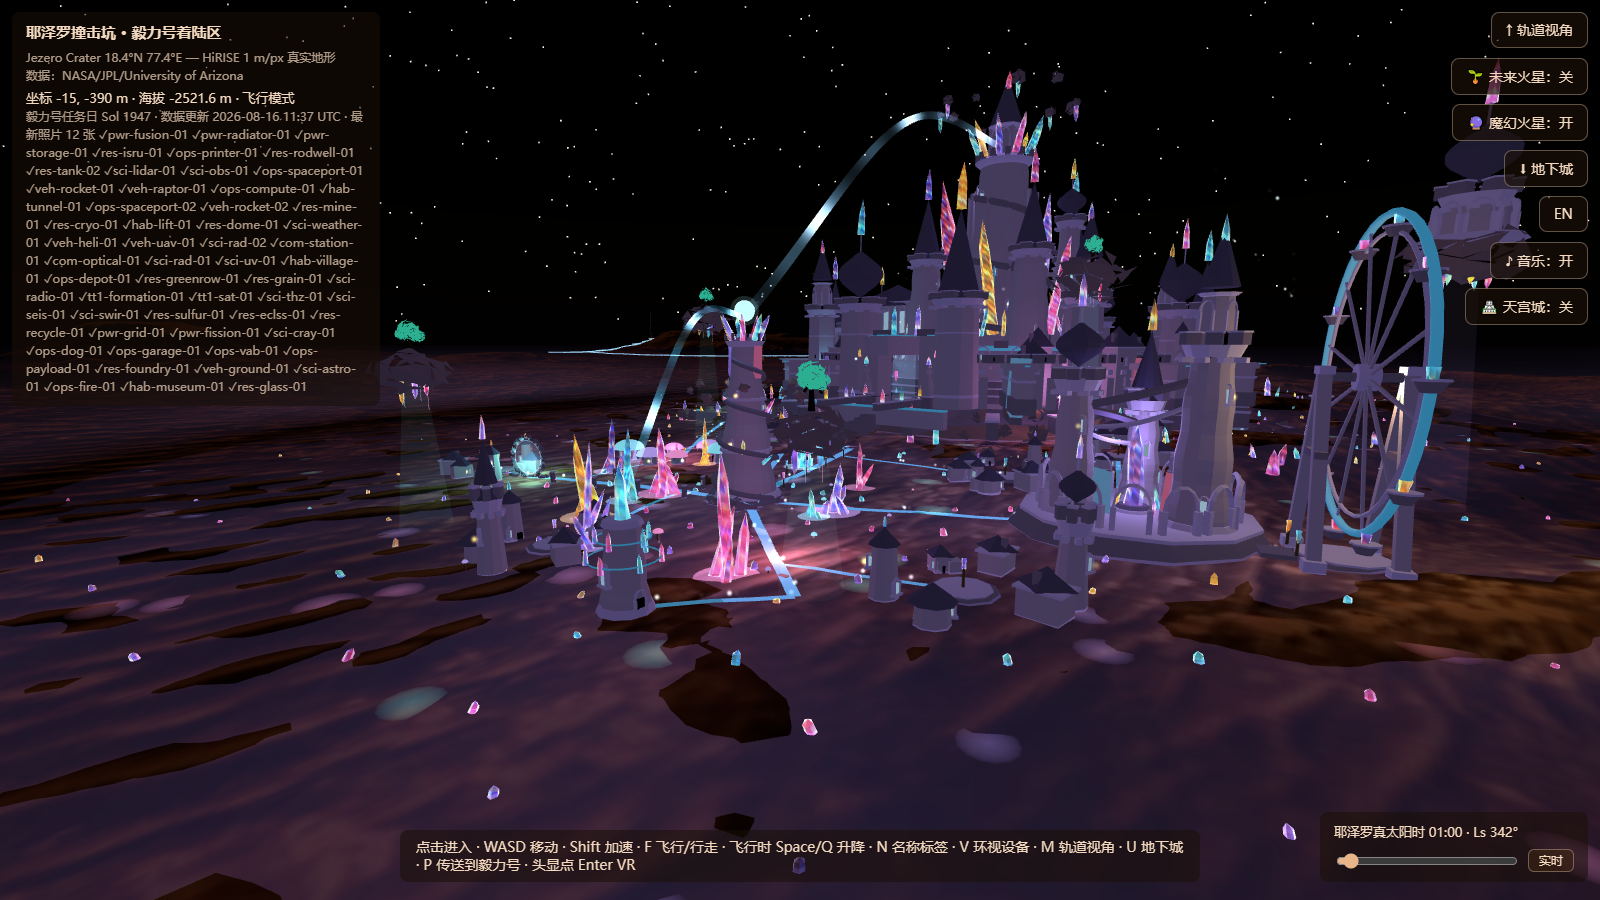
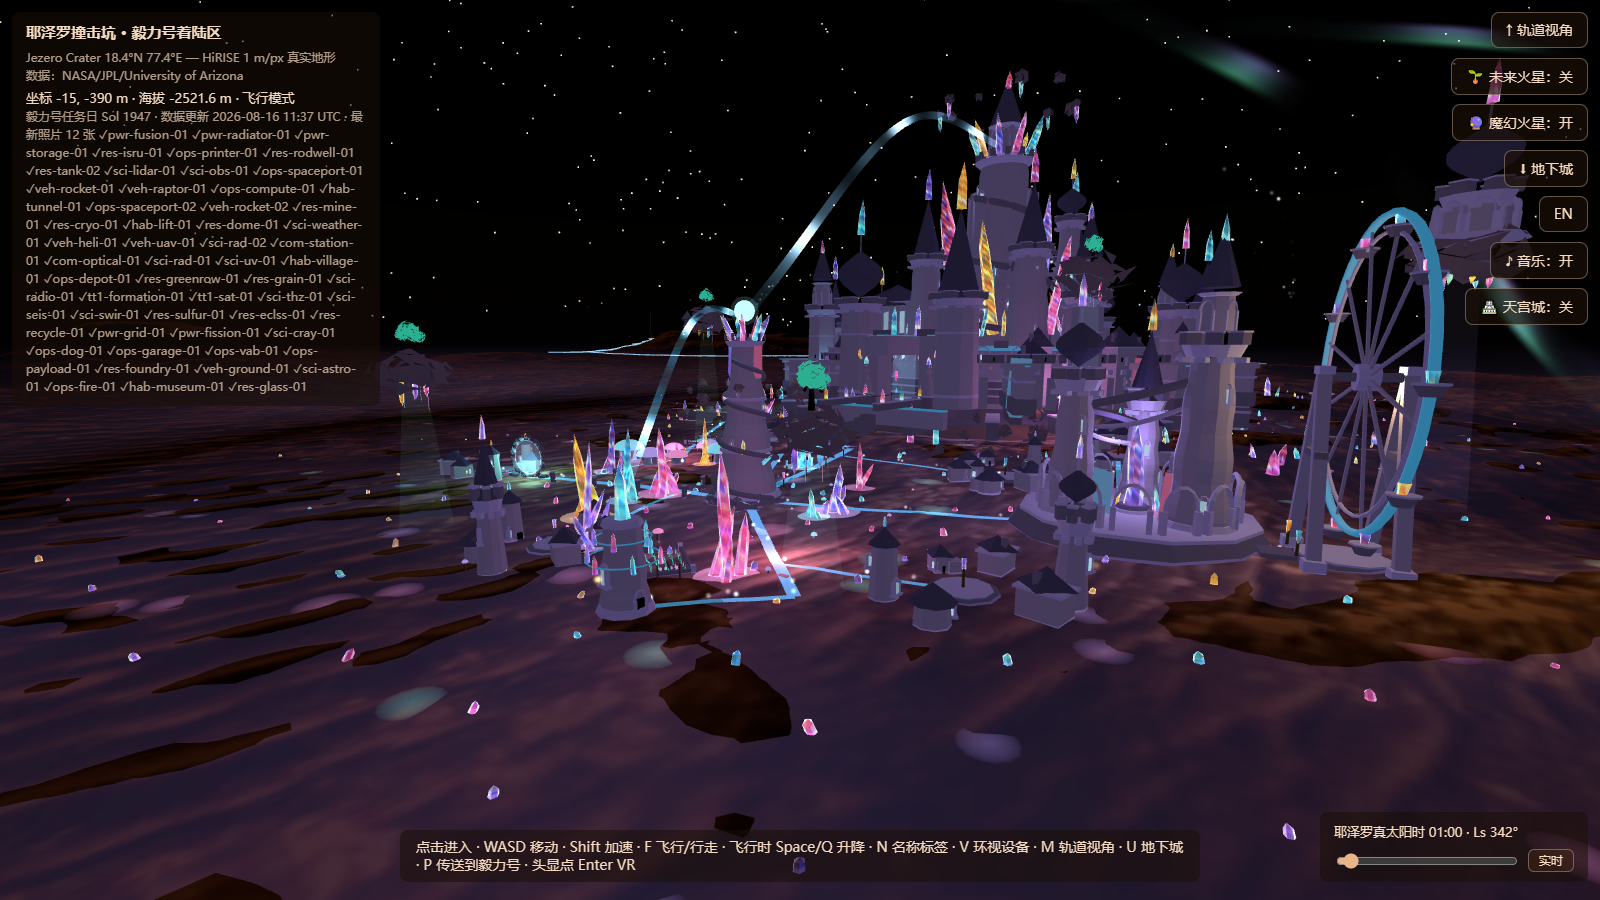
docs: the city in the round - a turntable gif joins the README
A 40-frame orbit of the science city under the hero image: launch
towers, mine spiral, radiator field, greenhouse dome and the
Perseverance route in one slow turn.

diff --git a/viewer/magic/magic-city.js b/viewer/magic/magic-city.js
@@ -2836,6 +2836,153 @@ export function build(ctx) {
     });
   }
 
+  // ---- fields, flock, and the burning sky ----------------------------------
+  // Connective tissue and a crown. Wards gave the city its buildings; this
+  // gives it agriculture between them, birds over it, and a sky of its own.
+  {
+    const h2 = (n) => {
+      const x = Math.sin(n * 91.7 + 47.123) * 24634.6345;
+      return x - Math.floor(x);
+    };
+    // -- A) crop plots: walled fields of glowing reed near the wards. Plain
+    //    green by day; the engine's night ramp lights them (cropMat rides
+    //    nightStone). All tufts across all plots are ONE InstancedMesh.
+    const cropMat = new THREE.MeshLambertMaterial({ color: 0x9fe8c8,
+      emissive: 0x2fbf8f, flatShading: true });
+    nightStone.push(cropMat);
+    const PLOTS = [                              // [cx, cz, w, d, yaw]
+      [-125, -470, 16, 11, 0.5],
+      [-237, -577, 14, 10, 1.2],
+      [-95, -657, 15, 9, 2.4],
+    ];
+    const mats2 = [];
+    const fields = new THREE.Group();
+    fields.name = 'magicFields';
+    magicGroup.add(fields);
+    const { put, flush } = makeBuilder(fields);
+    for (let pi = 0; pi < PLOTS.length; pi++) {
+      const [cx, cz, w2, d2, yaw] = PLOTS[pi];
+      const c = Math.cos(yaw), s0 = Math.sin(yaw);
+      const py3 = gY(cx, cz);
+      for (const [ex, ez, el, across] of [      // low field walls, w x d ring
+        [0, d2 / 2, w2, true], [0, -d2 / 2, w2, true],
+        [w2 / 2, 0, d2, false], [-w2 / 2, 0, d2, false]]) {
+        const wallB = new THREE.Mesh(
+          new THREE.BoxGeometry(across ? el + 0.8 : 0.8, 0.9, across ? 0.8 : el + 0.8),
+          stoneDark);
+        put(wallB, cx + ex * c - ez * s0, py3 + 0.45, cz + ex * s0 + ez * c, -yaw);
+      }
+      for (const [sx, sz] of [[-1, -1], [1, -1], [1, 1], [-1, 1]]) {
+        put(new THREE.Mesh(new THREE.BoxGeometry(1.1, 1.6, 1.1), trimMat),
+          cx + (sx * w2 / 2) * c - (sz * d2 / 2) * s0, py3 + 0.8,
+          cz + (sx * w2 / 2) * s0 + (sz * d2 / 2) * c, -yaw);
+      }
+      // a drying rack: two posts, a bar, glowing pods hung from it (capMats
+      // batches since the hamlet round, so the pods cost no draws)
+      const rx2 = cx + (w2 / 2 + 3.2) * c, rz2 = cz + (w2 / 2 + 3.2) * s0;
+      const ry3 = gY(rx2, rz2);
+      for (const s2 of [-1, 1]) {
+        put(new THREE.Mesh(new THREE.CylinderGeometry(0.14, 0.2, 3, 5), woodMat),
+          rx2 - s2 * 2.2 * s0, ry3 + 1.5, rz2 + s2 * 2.2 * c);
+      }
+      put(new THREE.Mesh(new THREE.BoxGeometry(0.22, 0.22, 4.6), woodMat),
+        rx2, ry3 + 2.9, rz2, -yaw + Math.PI / 2);
+      for (let k = 0; k < 4; k++) {
+        const pod = new THREE.Mesh(new THREE.SphereGeometry(0.34, 7, 5),
+          capMats[(pi + k) % 3]);
+        put(pod, rx2 - (k - 1.5) * 1.05 * s0, ry3 + 2.3, rz2 + (k - 1.5) * 1.05 * c);
+      }
+      // tuft matrices, in rows with hashed stagger
+      const rows = Math.floor(d2 / 1.6), cols = Math.floor(w2 / 1.1);
+      for (let r2 = 0; r2 < rows; r2++) {
+        for (let q = 0; q < cols; q++) {
+          const seed = pi * 997 + r2 * 61 + q;
+          const lx3 = (q / (cols - 1) - 0.5) * (w2 - 2.4) + (h2(seed) - 0.5) * 0.5;
+          const lz3 = (r2 / (rows - 1) - 0.5) * (d2 - 2.4) + (h2(seed + 1) - 0.5) * 0.5;
+          const x = cx + lx3 * c - lz3 * s0, z = cz + lx3 * s0 + lz3 * c;
+          mats2.push([x, gY(x, z) + 0.38, z, h2(seed + 2)]);
+        }
+      }
+    }
+    flush();
+    const tuft = new THREE.ConeGeometry(0.17, 0.95, 3);
+    const crops = new THREE.InstancedMesh(tuft, cropMat, mats2.length);
+    crops.frustumCulled = false;
+    const mm2 = new THREE.Matrix4(), mq2 = new THREE.Quaternion();
+    const mv2 = new THREE.Vector3(), ms2 = new THREE.Vector3();
+    for (let i = 0; i < mats2.length; i++) {
+      const [x, y2, z, hsh] = mats2[i];
+      mq2.setFromEuler(new THREE.Euler((hsh - 0.5) * 0.24, hsh * 6.28,
+        (hsh - 0.5) * 0.24));
+      ms2.set(1, 0.7 + hsh * 0.7, 1);
+      mv2.set(x, y2, z);
+      mm2.compose(mv2, mq2, ms2);
+      crops.setMatrixAt(i, mm2);
+    }
+    crops.instanceMatrix.needsUpdate = true;
+    fields.add(crops);
+
+    // -- B) the spirit flock: a loose ring of lights riding a city-sized
+    //    ellipse, each bird with its own wobble. Visible by day too, dimmer.
+    const NB = 26;
+    const flock = new THREE.Points(sparkGeometry(new Float32Array(NB * 3)),
+      sparkMaterial(0xffeacc, 5.2, { nightOnly: false }));
+    flock.frustumCulled = false;
+    magicGroup.add(flock);
+    const fAttr = flock.geometry.attributes.position;
+    magicAnims.push((t) => {
+      const t0 = t * 0.020;
+      for (let i = 0; i < NB; i++) {
+        const a = (t0 + i * 0.011 + Math.sin(t * 0.7 + i * 2.1) * 0.003) * Math.PI * 2;
+        const x = -140 + Math.cos(a) * (250 + Math.sin(i * 3.7) * 26);
+        const z = -590 + Math.sin(a) * (190 + Math.cos(i * 2.3) * 22);
+        fAttr.setXYZ(i, x,
+          gY(x, z) + 52 + Math.sin(t * 0.5 + i) * 13 + Math.sin(a * 2.0) * 9, z);
+      }
+      fAttr.needsUpdate = true;
+    });
+
+    // -- C) the aurora: the magic half's own sky. Two additive ribbons high
+    //    over the tower-palace axis, curtains flowing along them, faded out
+    //    entirely by day (uDay) so the engine's sky stays untouched.
+    const auroraMat = new THREE.ShaderMaterial({
+      transparent: true, depthWrite: false, side: THREE.DoubleSide,
+      blending: THREE.AdditiveBlending,
+      uniforms: { uTime: crystalTime, uDay: crystalDay },
+      vertexShader: /* glsl */`
+        varying vec2 vUv;
+        uniform float uTime;
+        void main() {
+          vUv = uv;
+          vec3 p = position;
+          p.z += sin(uv.x * 9.42 + uTime * 0.23) * 9.0
+               + sin(uv.x * 23.0 - uTime * 0.11) * 4.0;
+          gl_Position = projectionMatrix * modelViewMatrix * vec4(p, 1.0);
+        }`,
+      fragmentShader: /* glsl */`
+        varying vec2 vUv;
+        uniform float uTime, uDay;
+        void main() {
+          float x = vUv.x;
+          float v = sin(x * 40.0 + sin(x * 7.0 + uTime * 0.35) * 2.6 - uTime * 0.12)
+                  + 0.5 * sin(x * 90.0 - uTime * 0.21);
+          float b = pow(max(v * 0.5 + 0.5, 0.0), 3.0);
+          vec3 c = mix(vec3(0.35, 1.0, 0.62), vec3(0.62, 0.38, 1.0), vUv.y)
+                 * (0.55 + 0.45 * b);
+          float edge = smoothstep(0.0, 0.16, x) * smoothstep(1.0, 0.84, x)
+                     * smoothstep(0.0, 0.25, vUv.y) * smoothstep(1.0, 0.6, vUv.y);
+          gl_FragColor = vec4(c, b * edge * (1.0 - uDay) * 0.32);
+        }`,
+    });
+    for (const [alt, ry2, len, wid] of [[238, 0.55, 720, 95], [268, 0.9, 640, 72]]) {
+      const rib = new THREE.Mesh(new THREE.PlaneGeometry(len, wid, 80, 1), auroraMat);
+      rib.position.set(-130, alt, -590);
+      rib.rotation.set(-Math.PI / 2 + 0.38, ry2, 0);
+      rib.frustumCulled = false;
+      magicGroup.add(rib);
+    }
+  }
+
   // ---- window fire, city-wide ---------------------------------------------
   // created AFTER every district (the palace used to own this Points; now the
   // academy, hamlet and mill windows breathe in the same swarm)

diff --git a/viewer/main.js b/viewer/main.js
@@ -3490,6 +3490,23 @@ if (q.has('debug')) {
   window.__mars = { units, unitSensors, unitAnims, orbitAnims, colonyGroup, scene,
     renderer, camera, rig, driveSensors, clock, sampleHeight, updateRelayCards,
     updateSun, orbitControls, get inInterior() { return inInterior; } };
+  // turntable helper for headless capture: park the flying rig on a circle
+  // around (cx,cz) at angDeg, aim at the centre, and render synchronously so
+  // the very next CDP screenshot sees this exact frame (headless background
+  // pages throttle rAF to ~1 Hz, so captures cannot wait for the loop).
+  window.__shot = (cx, cz, r, alt, angDeg) => {
+    const a = angDeg * Math.PI / 180;
+    const px = cx + Math.sin(a) * r, pz = cz + Math.cos(a) * r;
+    flying = true;
+    rig.position.set(px, sampleHeight(cx, cz) + alt, pz);
+    const fx = cx - px, fz = cz - pz;
+    yaw = Math.atan2(-fx, -fz);
+    pitch = -Math.atan2(alt * 0.8, Math.hypot(fx, fz));
+    rig.rotation.y = yaw;
+    camera.rotation.x = pitch;
+    renderer.render(scene, camera);
+    return 1;
+  };
 }
 if (q.get('view') === 'orbit') setOrbitMode(true);
 if (q.get('view') === 'cmb' && cmbAnchor) {  // jump to the L2 station

diff --git a/README.md b/README.md
@@ -5,6 +5,8 @@ simulation-backed engineering → a real chip running the city's AI.*
 
 ![Mars city panorama](docs/assets/hero.png)
 
+![The city in the round](snaps/city-turntable.gif)
+
 Starting from real NASA HiRISE terrain (Jezero Crater, 1 m/px), this project
 builds a Mars city digital twin in the browser: **54 placed facilities, twelve
 walk-in interiors, 460+ bilingual knowledge cards each backed by simulation**,
